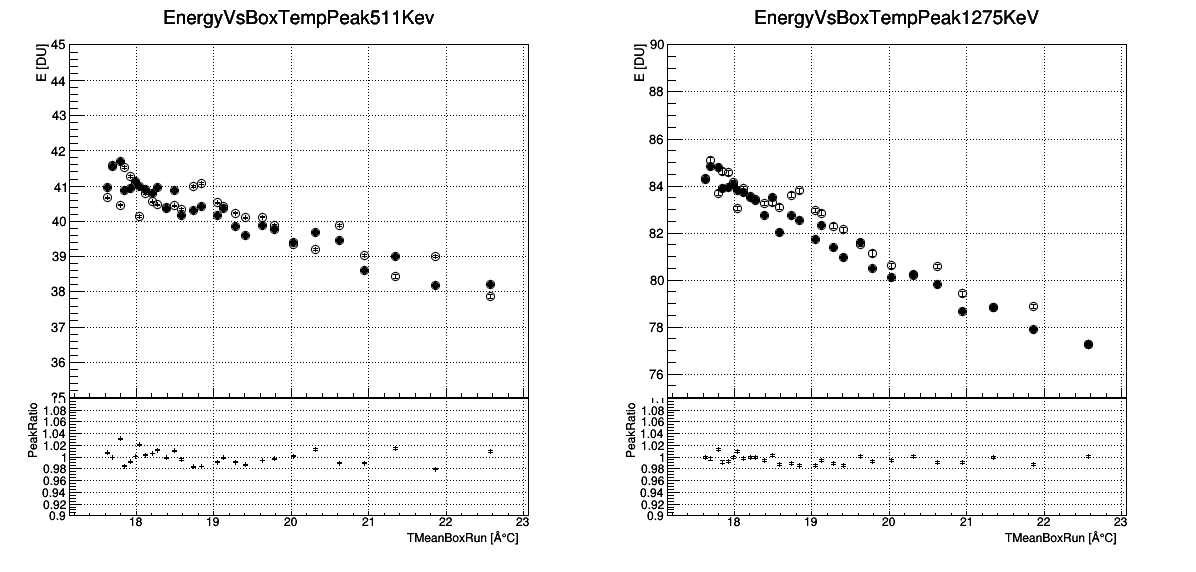
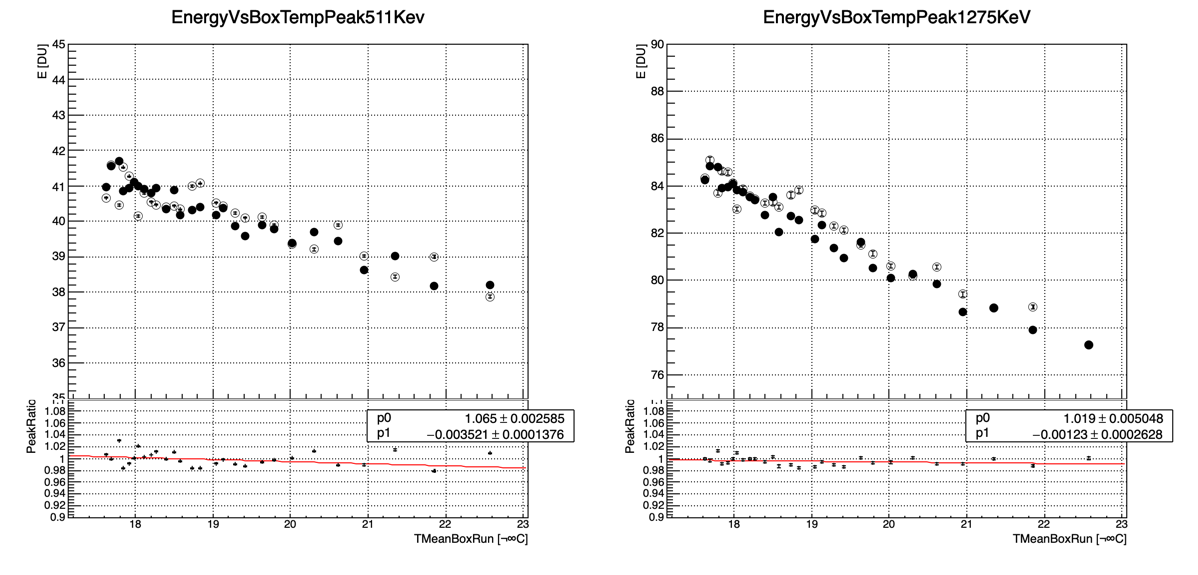
invalid pointer??

diff --git a/AnalysisTempCBTry.cpp b/AnalysisTempCBTry.cpp
@@ -68,7 +68,6 @@ void Analysis(){
     std::cout <<NFilePhys <<"   "<< (int)FileListPedestal.size()<< Pedestal[i][0] << "    " << Pedestal[i][1] << std::endl;
   }
 
-  
 
   TH1D* HistoCh59[NFilePhys];
   TH1D* HistoCh315[NFilePhys];
@@ -182,6 +181,8 @@ void Analysis(){
   PlotEVsT->SaveAs("Plot/EnergyTempCB/PlotEVsT.png");
 
   //gROOT->SetBatch(kFALSE);
+  //gStyle->SetOptFit(1111);
+  
   TCanvas* CanvGlobalTemp = new TCanvas("CanvasGlobalTemp", "CanvasGlobalTemp",1200,600);
   
   
@@ -202,7 +203,10 @@ void Analysis(){
   //RatioEnergyCh1 (TGlobal)
   CanvGlobalTemp->Divide(2,1);
   CanvGlobalTemp->cd(1);
- 
+
+  TF1* fitRatioCh59 = new TF1("fitRatioCh59","[0]+[1]*x");
+  TF1* fitRatioCh315 = new TF1("fitRatioCh315","[0]+[1]*x");
+  
   TPad *p2Ch59 = new TPad("p2","p3",0.,0.,1.,0.3); p2Ch59->Draw();
   TPad *p1Ch59 = new TPad("p1","p1",0.,0.3,1.,1.); p1Ch59->Draw();
   p1Ch59->SetBottomMargin(0.001);
@@ -223,6 +227,7 @@ void Analysis(){
   p2Ch59->cd()->SetGridy();
   SetStyleRatioPlot(GraphRatioCh59,0.35,0.65);
   GraphRatioCh59->Draw("AP");
+  GraphRatioCh59->Fit("fitRatioCh59");
   //////////////////////////////////////////////////////////////////////////////////////
   //RatioEnergyCh1 (TGlobal)
   CanvGlobalTemp->cd(2);
@@ -248,6 +253,7 @@ void Analysis(){
   p2Ch315->cd()->SetGridy();
   SetStyleRatioPlot(GraphRatioCh315,0.35,0.65);
   GraphRatioCh315->Draw("AP");
+  GraphRatioCh315->Fit("fitRatioCh315");
   ////////////////////////////////////////////////////////////////////////////////
   CanvGlobalTemp->SaveAs("Plot/EnergyTempCB/PlotEVsTglobal.png");
   ////////////////////////////////////////////////////////////////////////////////
@@ -266,6 +272,9 @@ void Analysis(){
   CanvasComparisonPeak->Divide(2,1);
   CanvasComparisonPeak->cd(1);
 
+  TF1* fitRatioPeak1 = new TF1("fitRatioPeak1","[0]+[1]*x");
+  TF1* fitRatioPeak2 = new TF1("fitRatioPeak2","[0]+[1]*x");
+  
   TPad *pad2Peak1 = new TPad("p2","p3",0.,0.,1.,0.3); pad2Peak1->Draw();
   TPad *pad1Peak1 = new TPad("p1","p1",0.,0.3,1.,1.); pad1Peak1->Draw();
   pad1Peak1->SetBottomMargin(0.001);
@@ -290,6 +299,8 @@ void Analysis(){
   pad2Peak1->cd()->SetGridy();
   SetStyleRatioPlot(GraphRatioPeak1,0.9,1.1);
   GraphRatioPeak1->Draw("AP");
+  GraphRatioPeak1->Fit("fitRatioPeak1");
+  
   //////////////////////////////////////////////////////////////
   CanvasComparisonPeak->cd(2);
   TPad *pad2Peak2 = new TPad("p2","p3",0.,0.,1.,0.3); pad2Peak2->Draw();
@@ -316,6 +327,29 @@ void Analysis(){
   pad2Peak2->cd()->SetGridy();
   SetStyleRatioPlot(GraphRatioPeak2,0.9,1.1);
   GraphRatioPeak2->Draw("AP");
-
+  GraphRatioPeak2->Fit("fitRatioPeak2");
+  
   CanvasComparisonPeak->SaveAs("Plot/EnergyTempCB/PeakComparisonVsTemp.png");
+
+  ////////////////////////////////////////////////////////////////////////////////
+  TH1D* HistoSumCh59 = new TH1D("HistoSumCh59","HistoSumCh59",100,0,100);
+  TH1D* HistoSumCh315 = new TH1D("HistoSumCh315","HistoSumCh315",100,0,100);
+  
+  for(int i=0;i<NFilePhys;i++){
+    
+    HistoSumCh59->Add(HistoCh59[i]);
+    HistoSumCh315->Add(HistoCh315[i]);
+
+  }
+
+  TCanvas* canvasSum = new TCanvas("CanvasSumHisto","CanvasSumHisto",1200,600);
+  canvasSum->Divide(2,1);
+
+  canvasSum->cd(1);
+  HistoSumCh59->Draw();
+
+  canvasSum->cd(2);
+  HistoSumCh315->Draw();
+
+  canvasSum->SaveAs("Plot/EnergyTempCB/HistoSum.png");
 }
